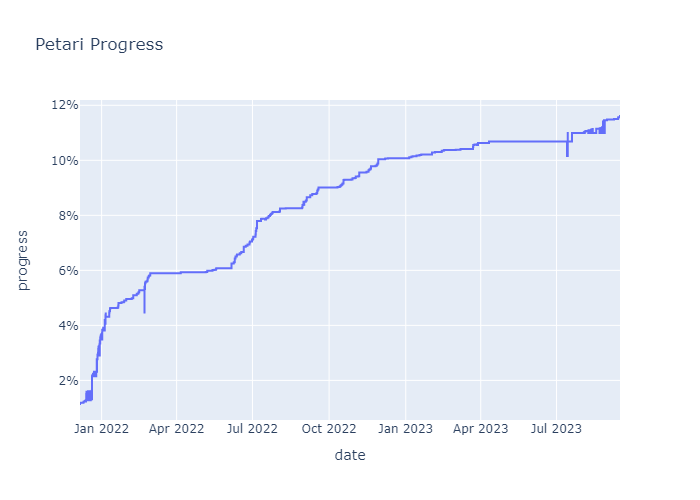
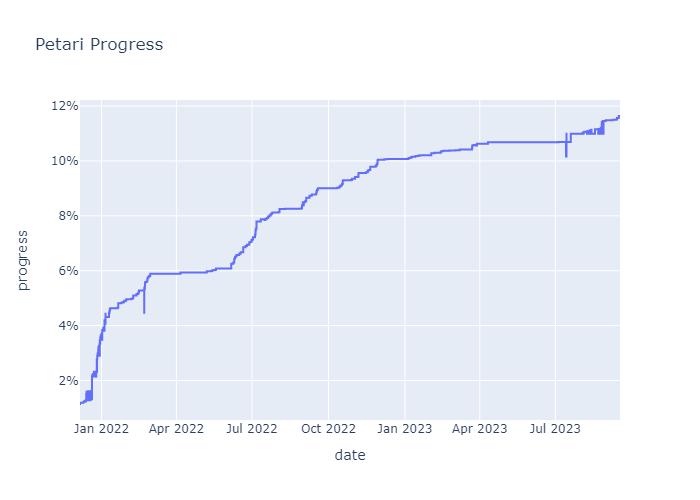
more `ScenarioSelectLayout` progress

diff --git a/source/Game/Screen/ScenarioSelectLayout.cpp b/source/Game/Screen/ScenarioSelectLayout.cpp
@@ -1,4 +1,5 @@
 #include "Game/Screen/ScenarioSelectLayout.h"
+#include "Game/Effect/MultiEmitter.h"
 
 namespace {
     const char* const cStarPaneName[] = {
@@ -94,6 +95,109 @@ void ScenarioSelectLayout::exeDisappearCometWarning() {
  
 void ScenarioSelectLayout::exeCancelFadeOut() {
     kill();
+}
+
+void ScenarioSelectLayout::exeAppear() {
+    if (MR::isFirstStep(this)) {
+        MR::setPaneAnimRate(this, "ScenarioSelect", 1.0f, 0);
+        setAnimRateAllNewPane(1.0f);
+    }
+
+    MR::startSystemLevelSE("SE_DM_LV_SENARIO_SEL_FLY", -1, -1);
+    MR::setNerveAtPaneAnimStopped(this, "ScenarioSelect", &NrvScenarioSelectLayout::ScenarioSelectLayoutNrvWaitScenarioSelect::sInstance, 0);
+}
+
+void ScenarioSelectLayout::exeWaitScenarioSelect() {
+    if (MR::isFirstStep(this)) {
+        startAnimAllNewPane("NewWait");
+        mBackButton->appear();
+    }
+
+    updateSelectedScenario();
+    updateScenarioText();
+    MR::startSystemLevelSE("SE_DM_LV_SENARIO_SEL_FLY", -1, -1);
+
+    if (!tryCancel()) {
+        if (trySelect()) {
+            _28 = 1;
+            MR::startSystemSE("SE_SY_DECIDE_1", -1, -1);
+            MR::startCSSound("CS_CLICK_CLOSE", nullptr, 0);
+            mBackButton->disappear();
+            setNerve(&NrvScenarioSelectLayout::ScenarioSelectLayoutNrvDecide::sInstance);
+        }
+    }
+}
+
+void ScenarioSelectLayout::exeDecide() {
+    if (MR::isFirstStep(this)) {
+        for (s32 i = 0; i < 7; i++) {
+            if (!mStars[i]->_30) {
+                if (mStars[i] == getSelectedStar()) {
+                    mStars[i]->select();
+                }
+                else {
+                    mStars[i]->notSelect();
+                }
+            }
+        }
+
+        startAnimAllNewPane("End");
+    }
+
+    updateScenarioText();
+    MR::startSystemSE("SE_DM_LV_SENARIO_SEL_FLY", -1, -1);
+    MR::setNerveAtStep(this,  &NrvScenarioSelectLayout::ScenarioSelectLayoutNrvAfterScenarioSelected::sInstance, 40);
+}
+
+void ScenarioSelectLayout::exeAfterScenarioSelected() {
+    MR::startPaneAnimAtStep(this, "ScenarioFrame", "End", 60, 0);
+    updateScenarioText();
+    MR::startSystemLevelSE("SE_DM_LV_SENARIO_SEL_FLY", -1, -1);
+    f32 v2 = MR::calcNerveEaseInValue(this, 60, 150, 2.0f, 15.0f);
+    f32 v3 = MR::calcNerveEaseInValue(this, 60, 150, 9.0f, 15.0f);
+    MR::setEffectRate(this, "ScenarioSelectEffect", v2);
+    MR::setEffectDirectionalSpeed(this, "ScenarioSelectEffect", v3);
+
+    if (MR::isStep(this, 180)) {
+        MR::stopStageBGM(30);
+        MR::closeSystemWipeWhiteFade(30);
+    }
+}
+
+void ScenarioSelectLayout::exeDisappear() {
+    if (MR::isFirstStep(this)) {
+        MR::hideLayout(this);
+        MR::getEffect(this, "ScenarioSelectEffect")->forceDelete(mEffectSystem);
+    
+        for (s32 i = 0; i < 7; i++) {
+            ScenarioSelectStar* star = mStars[i];
+
+            if (!star->_30) {
+                star->kill();
+            }
+        }
+
+        mScenarioSky->kill();
+        MR::openSystemWipeWhiteFade(180);
+    }
+
+    if (!MR::isSystemWipeActive()) {
+        kill();
+    }
+}
+
+void ScenarioSelectLayout::exeCancel() {
+    if (MR::isFirstStep(this)) {
+        mSelectedScenarioNo = -1;
+    }
+
+    updateScenarioText();
+
+    if (mBackButton->isHidden()) {
+        MR::closeSystemWipeCircleWithCaptureScreen(90);
+        MR::stopStageBGM(1);
+        setNerve(&NrvScenarioSelectLayout::ScenarioSelectLayoutNrvCancelFadeOut::sInstance);
+    }
 }
 
 void ScenarioSelectLayout::exeAppearCometWarning() {

diff --git a/include/Game/Util/LayoutUtil.h b/include/Game/Util/LayoutUtil.h
@@ -7,9 +7,13 @@ class LayoutActor;
 class Nerve;
 
 namespace MR {
+    void setEffectRate(LayoutActor *, const char *, f32);
+    void setEffectDirectionalSpeed(LayoutActor *, const char *, f32);
+
     void createAndAddPaneCtrl(LayoutActor *, const char *, u32);
 
     void startPaneAnim(LayoutActor *, const char *, const char *, u32);
+    void startPaneAnimAtStep(LayoutActor *, const char *, const char *, s32, u32);
 
     void showPaneRecursive(LayoutActor *, const char *);
 
@@ -19,6 +23,7 @@ namespace MR {
     void setPaneAnimFrameAndStop(LayoutActor *, const char *, f32, u32);
 
     void setAnimRate(LayoutActor *, f32, u32);
+    void setPaneAnimRate(LayoutActor *, const char *, f32, u32);
 
     f32 getAnimFrame(const LayoutActor *, u32);
 
@@ -86,4 +91,8 @@ namespace MR {
     void setTextBoxArgGameMessageRecursive(LayoutActor *, const char *, const char *, s32);
 
     bool isStep(const LayoutActor *, s32);
+
+    void hideLayout(LayoutActor *);
+
+    f32 calcNerveEaseInValue(const LayoutActor *, s32, s32, f32, f32);
 };

diff --git a/include/Game/Util/ScreenUtil.h b/include/Game/Util/ScreenUtil.h
@@ -26,6 +26,8 @@ namespace MR {
     void forceOpenWipeFade();
     void openWipeFade(f32);
 
+    void openSystemWipeWhiteFade(s32);
+
     bool isStageBeginTitleWipe();
     bool isStageBeginFadeWipe();
     bool isStageBeginWithoutWipe();
@@ -62,4 +64,8 @@ namespace MR {
 
     void createPurpleCoinCounter();
     void validatePurpleCoinCounter();
+
+    bool isSystemWipeActive();
+
+    void closeSystemWipeWhiteFade(s32);
 };

diff --git a/include/Game/Util/EffectUtil.h b/include/Game/Util/EffectUtil.h
@@ -7,6 +7,8 @@ class ParticleEmitter;
 class LiveActor;
 class HitSensor;
 class SingleEmitter;
+class MultiEmitter;
+class LayoutActor;
 
 namespace MR {
     namespace Effect {
@@ -24,6 +26,8 @@ namespace MR {
     void deleteEffectAll(LiveActor *);
 
     void emitEffect(LiveActor *, const char *);
+
+    MultiEmitter* getEffect(const LayoutActor *, const char *);
 
     void addEffect(LiveActor *, const char *);
 

diff --git a/include/Game/Screen/BackButton.h b/include/Game/Screen/BackButton.h
@@ -13,6 +13,9 @@ public:
     virtual void appear();
     virtual void control();
 
+    void disappear();
+    bool isHidden() const;
+
     ButtonPaneController* mController;      // _20
     u8 _24;
     u8 _25;

diff --git a/include/Game/Effect/MultiEmitter.h b/include/Game/Effect/MultiEmitter.h
@@ -1,0 +1,8 @@
+#pragma once
+
+class EffectSystem;
+
+class MultiEmitter {
+public:
+    void forceDelete(EffectSystem *);
+};

diff --git a/docs/lib/Screen/ScenarioSelectLayout.md b/docs/lib/Screen/ScenarioSelectLayout.md
@@ -5,7 +5,7 @@
 | :white_check_mark: | Function is completed. 
 
 
-# 28 / 63 Completed -- (44.44444444444444%)
+# 34 / 63 Completed -- (53.96825396825397%)
 # ScenarioSelectLayout.o
 | Symbol | Decompiled? |
 | ------------- | ------------- |
@@ -40,12 +40,12 @@
 | `startAnimAllNewPane__20ScenarioSelectLayoutFPCc` | :x: |
 | `setAnimRateAllNewPane__20ScenarioSelectLayoutFf` | :x: |
 | `exeAppearStar__20ScenarioSelectLayoutFv` | :x: |
-| `exeAppear__20ScenarioSelectLayoutFv` | :x: |
-| `exeWaitScenarioSelect__20ScenarioSelectLayoutFv` | :x: |
-| `exeDecide__20ScenarioSelectLayoutFv` | :x: |
-| `exeAfterScenarioSelected__20ScenarioSelectLayoutFv` | :x: |
-| `exeDisappear__20ScenarioSelectLayoutFv` | :x: |
-| `exeCancel__20ScenarioSelectLayoutFv` | :x: |
+| `exeAppear__20ScenarioSelectLayoutFv` | :white_check_mark: |
+| `exeWaitScenarioSelect__20ScenarioSelectLayoutFv` | :white_check_mark: |
+| `exeDecide__20ScenarioSelectLayoutFv` | :white_check_mark: |
+| `exeAfterScenarioSelected__20ScenarioSelectLayoutFv` | :white_check_mark: |
+| `exeDisappear__20ScenarioSelectLayoutFv` | :white_check_mark: |
+| `exeCancel__20ScenarioSelectLayoutFv` | :white_check_mark: |
 | `exeAppearCometWarning__20ScenarioSelectLayoutFv` | :white_check_mark: |
 | `exeWaitCometWarning__20ScenarioSelectLayoutFv` | :white_check_mark: |
 | `__dt__20ScenarioSelectLayoutFv` | :white_check_mark: |

diff --git a/docs/lib/Screen.md b/docs/lib/Screen.md
@@ -111,7 +111,7 @@
 | [PurpleCoinCounter.o](https://github.com/shibbo/Petari/blob/master/docs/lib/Screen/PurpleCoinCounter.md) | 0.0% | 0 / 13 | 0.0% | :x: 
 | [ReplaceTagProcessor.o](https://github.com/shibbo/Petari/blob/master/docs/lib/Screen/ReplaceTagProcessor.md) | 0.0% | 0 / 12 | 0.0% | :x: 
 | [SaveIcon.o](https://github.com/shibbo/Petari/blob/master/docs/lib/Screen/SaveIcon.md) | 0.0% | 0 / 4 | 0.0% | :x: 
-| [ScenarioSelectLayout.o](https://github.com/shibbo/Petari/blob/master/docs/lib/Screen/ScenarioSelectLayout.md) | 21.309963099630995% | 28 / 63 | 44.44444444444444% | :eight_pointed_black_star: 
+| [ScenarioSelectLayout.o](https://github.com/shibbo/Petari/blob/master/docs/lib/Screen/ScenarioSelectLayout.md) | 34.36346863468634% | 34 / 63 | 53.96825396825397% | :eight_pointed_black_star: 
 | [ScenarioTitle.o](https://github.com/shibbo/Petari/blob/master/docs/lib/Screen/ScenarioTitle.md) | 0.0% | 0 / 14 | 0.0% | :x: 
 | [SceneWipeHolder.o](https://github.com/shibbo/Petari/blob/master/docs/lib/Screen/SceneWipeHolder.md) | 0.0% | 0 / 9 | 0.0% | :x: 
 | [ScreenAlphaCapture.o](https://github.com/shibbo/Petari/blob/master/docs/lib/Screen/ScreenAlphaCapture.md) | 0.0% | 0 / 9 | 0.0% | :x: 

diff --git a/docs/PROGRESS.md b/docs/PROGRESS.md
@@ -20,7 +20,7 @@
 | [RhythmLib](https://github.com/shibbo/Petari/blob/master/docs/lib/RhythmLib.md) | 1.2661566868900025% |
 | [Ride](https://github.com/shibbo/Petari/blob/master/docs/lib/Ride.md) | 0.0% |
 | [Scene](https://github.com/shibbo/Petari/blob/master/docs/lib/Scene.md) | 13.849590469099033% |
-| [Screen](https://github.com/shibbo/Petari/blob/master/docs/lib/Screen.md) | 5.325196346196568% |
+| [Screen](https://github.com/shibbo/Petari/blob/master/docs/lib/Screen.md) | 5.695019797969238% |
 | [Speaker](https://github.com/shibbo/Petari/blob/master/docs/lib/Speaker.md) | 49.743881616391576% |
 | [System](https://github.com/shibbo/Petari/blob/master/docs/lib/System.md) | 14.277014518172074% |
 | [Util](https://github.com/shibbo/Petari/blob/master/docs/lib/Util.md) | 9.661178747499052% |
